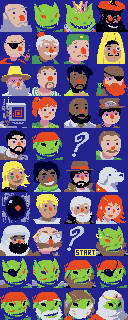
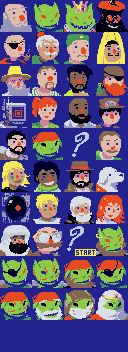
use goblin queen character art in game

diff --git a/source/data/character_art.h b/source/data/character_art.h
@@ -3,13 +3,13 @@
 
 //======================================================================
 //
-//	character_art, 128x320@4, 
+//	character_art, 128x352@4, 
 //	Transparent color : FF,00,FF
 //	+ palette 16 entries, not compressed
-//	+ 640 tiles Metatiled by 4x4 not compressed
-//	Total size: 32 + 20480 = 20512
+//	+ 704 tiles Metatiled by 4x4 not compressed
+//	Total size: 32 + 22528 = 22560
 //
-//	Time-stamp: 2024-12-15, 19:50:12
+//	Time-stamp: 2024-12-16, 06:45:36
 //	Exported by Cearn's GBA Image Transmogrifier, v0.9.2
 //	( http://www.coranac.com/projects/#grit )
 //
@@ -18,8 +18,8 @@
 #ifndef GRIT_CHARACTER_ART_H
 #define GRIT_CHARACTER_ART_H
 
-#define character_artTilesLen 20480
-extern const unsigned int character_artTiles[5120];
+#define character_artTilesLen 22528
+extern const unsigned int character_artTiles[5632];
 
 #define character_artPalLen 32
 extern const unsigned short character_artPal[16];

diff --git a/source/skyland/scene/crewStatsScene.cpp b/source/skyland/scene/crewStatsScene.cpp
@@ -248,7 +248,7 @@ static constexpr u8 human_icons[] = {5,  1,  6,  7,  8,  9,  10, 11, 12, 14, 15,
                                      16, 17, 20, 21, 22, 23, 19, 26, 27, 28};
 
 
-static constexpr u8 goblin_icons[] = {18, 35, 36, 37, 38, 39, 19};
+static constexpr u8 goblin_icons[] = {18, 35, 36, 37, 38, 39, 40, 19};
 
 
 
